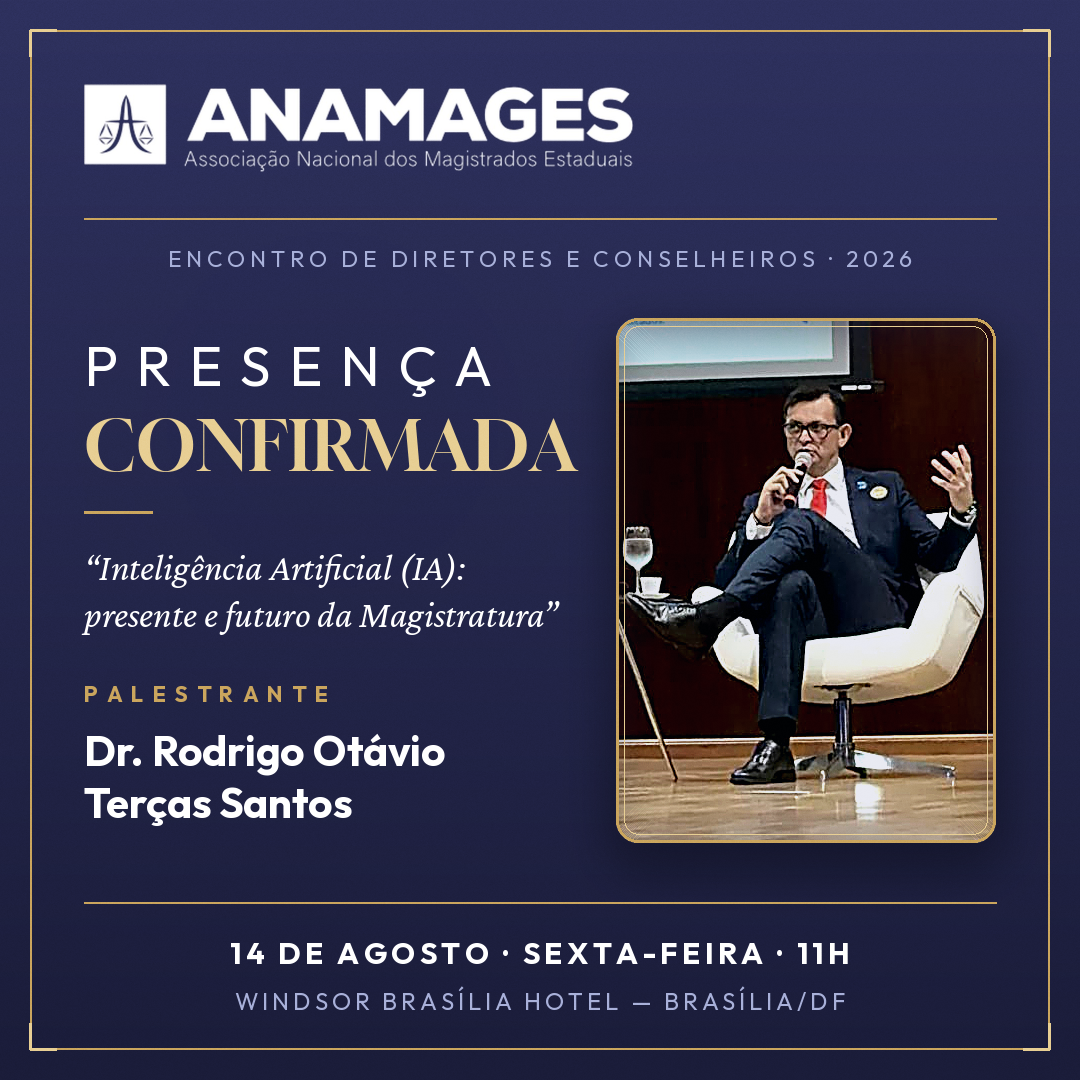
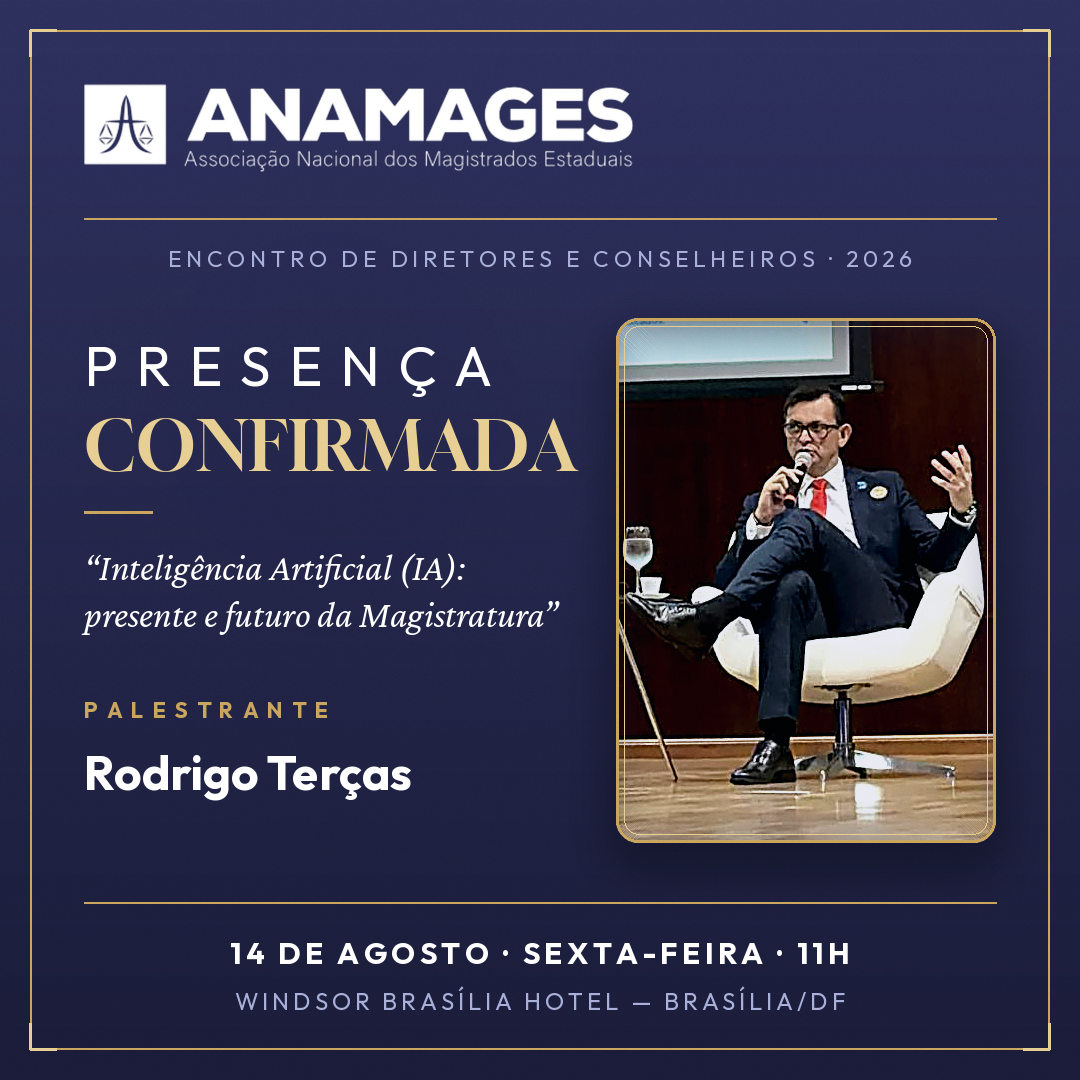
Atualiza artes: palestrante 'Rodrigo Terças' e nova legenda com homenagem
Nome nas artes passa a ser 'Rodrigo Terças'; legenda sugerida reescrita
destacando a honra de dividir a programação com grandes nomes do
Judiciário e a alegria de palestrar em seguida ao Des. Elpídio Donizetti.

Claude-Session: https://claude.ai/code/session_01TNw8TGeCAbNJ5dGHWvcnaC

Changed region(s): [[0.0611, 0.6111, 0.4278, 0.7639]]

diff --git a/social/anamages-2026-presenca-confirmada/gerar_artes.py b/social/anamages-2026-presenca-confirmada/gerar_artes.py
@@ -234,7 +234,7 @@ H1A, H1B = "PRESENÇA", "CONFIRMADA"
 TEMA_1   = "Inteligência Artificial (IA):"
 TEMA_2   = "presente e futuro da Magistratura"
 ROLE     = "PALESTRANTE"
-NAME     = "Dr. Rodrigo Otávio Terças Santos"
+NAME     = "Rodrigo Terças"
 DATA     = "14 DE AGOSTO · SEXTA-FEIRA · 11H"
 LOCAL    = "WINDSOR BRASÍLIA HOTEL — BRASÍLIA/DF"
 
@@ -273,7 +273,7 @@ def make_story():
     d = ImageDraw.Draw(img)
 
     # placa de nome sobreposta à base do retrato
-    plate_w, plate_h = 830, 158
+    plate_w, plate_h = 660, 158
     plx, ply = W//2 - plate_w//2, py + ph - 74
     pl = Image.new("RGBA", img.size, (0, 0, 0, 0))
     pld = ImageDraw.Draw(pl)
@@ -283,7 +283,7 @@ def make_story():
     d = ImageDraw.Draw(img)
     f_role = font(F_SANS_B, 24)
     draw_tracked(d, (W//2, ply + 26), ROLE, f_role, GOLD, 24 * 0.42)
-    f_name, tr_n = fit_font(d, NAME, F_SANS_B, plate_w - 90, 42, 0.02)
+    f_name, tr_n = fit_font(d, NAME, F_SANS_B, plate_w - 90, 46, 0.02)
     draw_tracked(d, (W//2, ply + 74), NAME, f_name, WHITE, tr_n)
 
     y = ply + plate_h + 46
@@ -346,14 +346,13 @@ def make_post():
     for i, line in enumerate(["“" + TEMA_1] + wrap_text(d, TEMA_2 + "”", f_tema, lw_col)):
         d.text((lx, y), line, font=f_tema, fill=WHITE)
         y += 47
-    y += 40
+    y += 56
 
     f_role = font(F_SANS_B, 22)
     draw_tracked(d, (lx, y), ROLE, f_role, GOLD, 22 * 0.40, anchor="left")
-    y += 44
-    f_name = font(F_SANS_B, 42)
-    d.text((lx, y), "Dr. Rodrigo Otávio", font=f_name, fill=WHITE)
-    d.text((lx, y + 52), "Terças Santos", font=f_name, fill=WHITE)
+    y += 46
+    f_name = font(F_SANS_B, 48)
+    d.text((lx, y), NAME, font=f_name, fill=WHITE)
 
     # dispositivo (rodapé)
     d.line([(84, 902), (W - 84, 902)], fill=GOLD + (120,), width=2)

diff --git a/social/anamages-2026-presenca-confirmada/legenda-sugerida.md b/social/anamages-2026-presenca-confirmada/legenda-sugerida.md
@@ -4,15 +4,25 @@
 
 > **Presença confirmada!** ⚖
 >
-> No dia **14 de agosto (sexta-feira), às 11h**, estarei no **Encontro de Diretores e Conselheiros da ANAMAGES 2026**, no Windsor Brasília Hotel, em Brasília/DF, para ministrar a palestra:
+> No dia **14 de agosto (sexta-feira), às 11h**, terei a honra de palestrar no **Encontro de Diretores e Conselheiros da ANAMAGES 2026**, no Windsor Brasília Hotel, em Brasília/DF, com o tema:
 >
 > 🎙 *“Inteligência Artificial (IA): presente e futuro da Magistratura”*
 >
-> Será uma honra dialogar com magistradas e magistrados de todo o país sobre como a IA já transforma — e ainda vai transformar — o nosso ofício de julgar.
+> É uma honra dividir a programação com tantos nomes fortes, que enriquecem o Judiciário nacional e o público da área do Direito.
+>
+> E confesso uma alegria especial: palestrar em seguida ao Des. **Elpídio Donizetti**, ex-presidente da ANAMAGES, a quem tenho enorme admiração — e cuja obra foi base da minha preparação e aprovação em concursos jurídicos. Subir ao mesmo palco de quem me ensinou tanto pelas páginas de seus livros é um daqueles momentos que dão ainda mais sentido à caminhada.
 >
 > Nos vemos lá!
 >
-> #ANAMAGES #Magistratura #InteligênciaArtificial #IA #PoderJudiciário #Brasília #EncontroDeDiretoresEConselheiros2026
+> #ANAMAGES #Magistratura #InteligênciaArtificial #IA #PoderJudiciário #Direito #Brasília #ElpídioDonizetti
+
+## Versão mais enxuta (alternativa)
+
+> **Presença confirmada!** ⚖ Dia **14/08, às 11h**, palestro no **Encontro de Diretores e Conselheiros da ANAMAGES 2026**, em Brasília/DF, sobre *“Inteligência Artificial (IA): presente e futuro da Magistratura”*.
+>
+> Honra imensa integrar uma programação com nomes tão fortes do Judiciário nacional — e alegria especial em palestrar em seguida ao Des. **Elpídio Donizetti**, a quem tanto admiro e cuja obra foi base da minha aprovação em concursos jurídicos.
+>
+> #ANAMAGES #Magistratura #IA #Direito
 
 ## Stories
 
